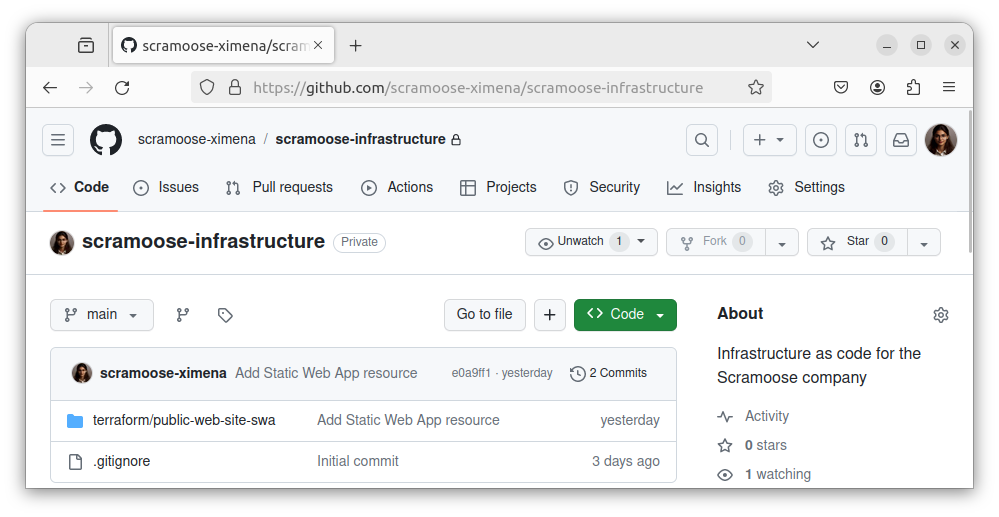
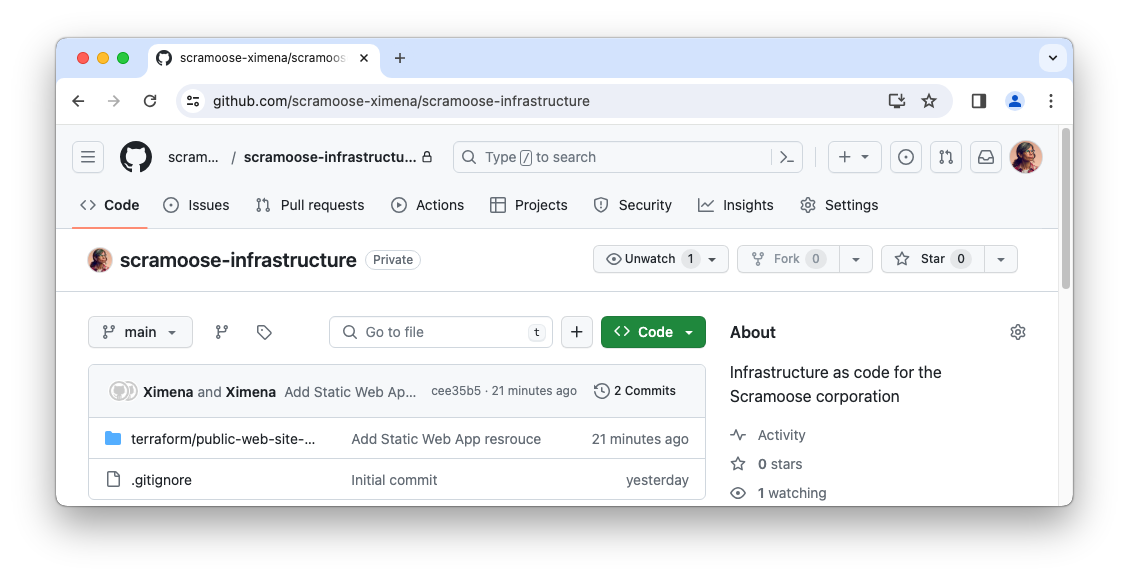
Update images and content

Changed region(s): [[0.0, 0.0309, 0.993, 0.9903], [0.1862, 0.5571, 0.2482, 0.619], [0.1552, 0.588, 0.1862, 0.619]]

diff --git a/_drafts/learn/web/static-web-app/procedures/2024-02-28-push-to-github.md b/_drafts/learn/web/static-web-app/procedures/2024-02-28-push-to-github.md
@@ -5,27 +5,26 @@ sort_order: 4
 description: Now that we have our starter code, let's push it to our own GitHub repo.
 excerpt: Now that we've made some changes, we should push those changes up to GitHub in case our laptop craps out. We're also going to start screwing around with our app and if we mess it all up, we'll want to revert back.
 ---
-{% assign fake_company_name_lower = site.data.fake.company_name | downcase %}
-{% assign infrastructure_repo = '-infrastucture' | prepend: fake_company_name_lower %}
-{% assign web_public_repo = '-web-public' | prepend: fake_company_name_lower %}
-
 If you've been following along with the procedures in this service so far, you've done the following:
 
 - [Created your GitHub repositories]({% post_url /learn/web/static-web-app/procedures/2024-02-28-configure-dev-environment %}) and cloned them to your local computer
 - Created a new [Static Web App resource with Terraform]({% post_url /learn/web/static-web-app/procedures/2024-02-28-swa-terraform %})
 - Run the static website on your [local computer]({% post_url /learn/web/static-web-app/procedures/2024-02-28-static-web-app-local-dev %}).
 
-Now that we've made some changes, we should push those changes up to GitHub in case our laptop craps out. We're also going to start screwing around with our app and if we mess it all up, we'll want to revert back. Just like when we [configured our repositories]({% post_url /learn/web/static-web-app/procedures/2024-02-28-configure-dev-environment %}), there are two ways to push our changes back up to GitHub: the `git` command or using the VS Code interface. We'll push our changes with the command line for the {{ infrastructure_repo }} repo and do it the VS Code way for our {{ web_public_repo }} repo.
+Now that we've made some changes, we should push those changes up to GitHub in case our laptop craps out. We're also going to start screwing around with our app and if we mess it all up, we'll want to revert back. Just like when we [configured our repositories]({% post_url /learn/web/static-web-app/procedures/2024-02-28-configure-dev-environment %}), there are two ways to push our changes back up to GitHub: the `git` command or using the VS Code interface. We'll push our changes with the command line for the {{ site.data.fake.infrastructure_repo }} repo and do it the VS Code way for our {{ site.data.fake.web_public_repo }} repo.
 
-There's actually a couple of steps before we can push changes into GitHub. Git doesn't actually know about our changes so we need to **stage** the files we want to add to our repository. After a file has been staged, it can be **committed** where we officially add it to the repository with a message about what the file is about (or what changes were made if the file already exists).
+There's a couple of steps before we can push changes into GitHub. Git doesn't know which of our changes we want to add to the repo so we need to **stage** those files first. After a file has been staged, it can be **committed** where we officially add it to the repository with a message about what the file is about (or what changes were made if the file already exists).
 
 ## Command Line
 
-Before you start this, you should see that the source control icon in VS Code will show that some files have not been committed. Even though we're using the command line, click on the source control icon so you can see how our changes will be detected by VS Code.
+Before you start this, you should see that the Source Control icon in VS Code will show that some files have not been committed. Even though we're using the command line, click on the Source Control ![VS Code Source Control icon](/assets/images/posts/vscode-source-control-icon.png) icon so you can see how our changes will be detected by VS Code.
 
-Start VS Code, open any file from the {{ infrastructure_repo }} folder, and then open the terminal. This should put you in the *{{ infrastructure_repo }}* folder, but if not, `cd` into that folder.
+{% capture vscode_unstaged_files_caption %}You should have 3 unstaged files in your local {{ site.data.fake.infrastructure_repo }} repository.{% endcapture %}
+{% include figure image_path="/assets/images/posts/vscode-source-control-unstaged-files.png" caption=vscode_unstaged_files_caption alt="VS Code with unstaged files" %}
 
-If you are in the *{{ infrastructure_repo }}/terraform/public-web-site-swa* folder, this will still work with that folder with slightly different output. I like to run my `git` commands at the root of the repository in case I'm forgetting any files, but you can run the commands from a subfolder if you want.
+Start VS Code and open a terminal into the {{ site.data.fake.infrastructure_repo }} folder.
+
+If you are in the *{{ site.data.fake.infrastructure_repo }}/terraform/public-web-site-swa* folder, this will still work with that folder with slightly different output. I like to run my `git` commands at the root of the repository in case I'm forgetting any files, but you can run the commands from a subfolder if you want.
 {: .notice--info}
 
 Type the following command to see what Git says the current status is.
@@ -53,7 +52,9 @@ Git is saying that we have some new files that it sees but that haven't been sta
 git add -A
 ```
 
-You won't see any output, but you'll notice that the source control extension in VS Code now shows these files as staged. Let's check the status again and see what Git says.
+You won't see any output, but you'll notice that the Source Control extension in VS Code now shows these files as staged. Let's check the status again and see what Git says.
+
+![staged files](/assets/images/posts/vscode-source-control-infra-repo-staged.png)
 
 ``` shell
 git status
@@ -75,9 +76,10 @@ Changes to be committed:
 Now let's commit these files to our repository with a message.
 
 ``` shell
-git commit * -m "Add Static Web App resource"
+git commit -m "Add Static Web App resource"
 ```
 
+{% capture author_notice %}
 There's a chance you get this output:
 
 {% highlight output %}
@@ -101,12 +103,34 @@ git config --global user.email "{{ site.data.fake.engineer_username }}@{{ site.d
 git config --global user.name "{{ site.data.fake.engineer_username | capitalize }}"
 ```
 
-Now that we're past that, run the same commit message again. If you didn't have that problem, you don't have to run this command again. (But if you do accidentally run this again, you'll get a friendly message that there's nothing to commit.)
+Now that we're past that, run the same commit message again.
 
 ``` shell
-# You only need to run this again if you got the "Author identity unknown" error message.
-git commit * -m "Add Static Web App resource"
+git commit -m "Add Static Web App resource"
 ```
+
+***
+
+You may have also received a message like this:
+
+{% highlight output %}
+Your name and email address were configured automatically based
+on your username and hostname. Please check that they are accurate.
+You can suppress this message by setting them explicitly. Run the
+following command and follow the instructions in your editor to edit
+your configuration file:
+
+    git config --global --edit
+
+After doing this, you may fix the identity used for this commit with:
+
+    git commit --amend --reset-author
+{% endhighlight %}
+
+If you got that, the commit probably worked but you should still run the same commands above to set your username and email.
+{% endcapture %}
+
+<div class="notice--info">{{ author_notice | markdownify }}</div>
 
 Git tells us that we successfully committed our changes.
 
@@ -118,7 +142,9 @@ Git tells us that we successfully committed our changes.
  create mode 100644 terraform/public-web-site-swa/main.tf
 {% endhighlight %}
 
-Now the source control extension in VS Code shows that everything is good and that you commits that need to pushed to GitHub, that should also be confirmed when we check the status.
+Now the Source Control extension in VS Code should show that everything is good and that your commits need to be pushed to GitHub. This will be confirmed when we check the status.
+
+![staged files](/assets/images/posts/vscode-source-control-infra-repo-committed.png)
 
 ``` shell
 git status
@@ -132,7 +158,7 @@ Your branch is ahead of 'origin/main' by 1 commit.
 nothing to commit, working tree clean
 {% endhighlight %}
 
-Yup, `git status` is telling us that our local repository has newer commits than the repository on GitHub and suggest we run `git push`. Great idea! Let's push our changes up to GitHub.
+Yup, `git status` is telling us that our local repository has newer commits than the repository on GitHub and is suggesting we run `git push`. Great idea! Let's push our changes up to GitHub.
 
 ``` shell
 git push
@@ -146,11 +172,11 @@ Compressing objects: 100% (6/6), done.
 Writing objects: 100% (7/7), 1.41 KiB | 1.41 MiB/s, done.
 Total 7 (delta 1), reused 0 (delta 0), pack-reused 0
 remote: Resolving deltas: 100% (1/1), completed with 1 local object.
-To https://github.com/2ndsleep/{{ infrastructure_repo }}.git
+To https://github.com/2ndsleep/{{ site.data.fake.infrastructure_repo }}.git
    f3d9098..7477bd6  main -> main
 {% endhighlight %}
 
-We did it! The source control extension in VS Code should also show that there's nothing to push. Let's run one more `git status` to see what it says.
+We did it! The Source Control extension in VS Code should also show that there's nothing to push. Let's run one more `git status` to see what it says.
 
 ``` shell
 git status
@@ -169,20 +195,30 @@ nothing to commit, working tree clean
 
 ## VS Code
 
-Now let's do it the easy way with our {{ web_public_repo }} repository. Open VS Code and click on the Source Control icon. You should see 5 files under the **Changes** header that need to be added to our repo. Each file should have a green letter **U** next to it (this stands for **untracked** in Git parlance).
+Now let's do it the easy way with our {{ site.data.fake.infrastructure_repo }} repository. Open VS Code and click on the Source Control ![VS Code Source Control icon](/assets/images/posts/vscode-source-control-icon.png) icon. You should see 6 files under the **Changes** header that need to be added to our repo (or 4 files if you didn't copy the *LICENSE* and *README.md* files, which is a-okay). Each file should have a green letter **U** next to it, which stands for **untracked** in Git parlance.
 
-If you move your mouse slightly to the left of one of those U letters, you'll see a **+** sign. You can click on that for all of the files or to make it easier, click on the + sign in the **Changes** header to add all 5 files. The status should change from **Changes** to **Staged Changes**. This is the same as typing `git add -A`.
+If you move your mouse slightly to the left of one of those U letters, you'll see a **+** sign. You can click on that for each file or to make it easier, click on the + sign in the **Changes** header to add all the untracked files. The status should change from **Changes** to **Staged Changes**. This is the same as typing `git add -A`.
 
 {% include figure image_path="/assets/images/posts/vscode-source-control-stage-all.png" caption="Click the **+** button to stage all files." alt="VS Code stage all button" %}
 
 {% include figure image_path="/assets/images/posts/vscode-source-control-staged.png" caption="All files are now staged." alt="VS Code staged files" class="third" %}
 
-Now we want to commit our changes, so type the following message into the message bar above the files: `Add initial web content`. Click the **Commit** button. This is the same as typing `git commit * -m "Add initial web content"`.
+Now we want to commit our changes, so type the following message into the message bar above the files: `Add initial web content`. Click the **Commit** button. This is the same as typing `git commit -m "Add initial web content"`.
 
 {% include figure image_path="/assets/images/posts/vscode-source-control-pre-commit.png" caption="Add a commit message and click the **Commit** button." alt="VS Code commit changes" class="third" %}
 
-Okay, you've committed everything locally. Now you should see a button that says **Sync Changes 1 ⬆**. Click that button to push your changes to GitHub.
+Okay, you've committed everything locally. This is normally where you would see a button that says **Sync Changes 1 ⬆**. However, since I told you not to include a *.gitignore* or *README.md* file when you created the repo, GitHub had no initial files and didn't both creating a branch. However, as soon as you committed files locally, Git created a local branch named **main**. Now you have a local branch named main but no corresponding branch in GitHub so Git is confused. Luckily, there is an easy fix which is to run this command.
 
-{% include figure image_path="/assets/images/posts/vscode-source-control-sync.png" caption="Clicking the **Sync Changes** button is the same as `git push`." alt="VS Code sync changes" class="third" %}
+``` shell
+git branch --unset-upstream
+```
+
+Now you should see the **Public Branch** button. Click that button to create the main branch in GitHub and push the changes.
+
+{% include figure image_path="/assets/images/posts/vscode-source-control-infra-repo-publish.png" caption="Since the main branch is completely new to GitHub, you'll need to publish it first. After that, you should see the **Sync Changes ⬆** button whenever you have new commits to push." alt="VS Code Source Control publish branch button" class="half" %}
 
 Yeah, that's a lot easier. Despite that, I find myself frequently using the command lines just to stay sharp. I like to know what I'm doing and if you do it a lot it's almost as fast as using the visual interface.
+
+## What About the Friggin' Website?
+
+Yeah, I know. We keep *not* creating a website. Don't worry, that's [next]({% post_url /learn/web/static-web-app/procedures/2024-02-28-github-actions %}).
